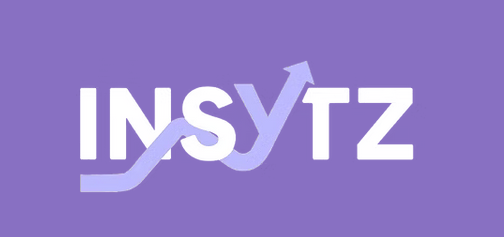
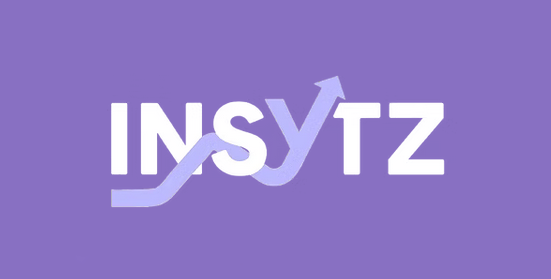
added insytz

Changed region(s): [[0.1488, 0.2658, 0.8333, 0.827]]

diff --git a/index.html b/index.html
@@ -1244,7 +1244,7 @@
                 ],
                 skills: ["Entrepreneurship", "Market Research", "Natural Language Processing (NLP)"],
                 linkedTo: ["edu-uva"],
-                image: "images/ss.png",
+                image: "images/insytz.png",
                 projectUrl: "#"
             }
         ];
